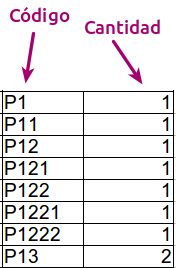
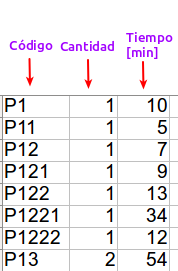
Agregamos tiempo de fabricacion

Changed region(s): [[0.0, 0.0597, 1.0, 1.0], [0.0568, 0.0299, 0.3977, 0.1194]]

diff --git a/templates/layout.html b/templates/layout.html
@@ -1,15 +1,19 @@
 <!doctype html>
 <html ng-app lang="es">
   <meta http-equiv="Content-Type" content="text/html;charset=utf-8">
-  <title>Calidad</title>
+  <title>UTN - Facultad Regional Buenos Aires</title>
   <link rel=stylesheet type=text/css href="{{ url_for('static',  filename='css/bootstrap.min.css') }}">
   <script type="text/javascript" src="../static/js/angular/angular.js"></script>
   <div class=container-fluid>
-    <h1>PCP</h1>
+    <a href="/"> <img src="../static/img/logo_utn.jpg" class="img-rounded"></a>
+    <br>
     <div class=nav-list>
       <div class="navbar">
         <div class="navbar-inner">
           <ul class="nav">
+            <li>
+              <a href="/">Inicio</a>
+            </li>
             <li>
               <a href="{{ url_for('abc') }}">ABC</a>
             </li>

diff --git a/templates/mrp.html b/templates/mrp.html
@@ -28,7 +28,7 @@
             <img src="../static/img/ejemplo_bom.png" class="img-rounded">
             <img data-src="holder.js/300x200" alt="Ejemplo archivo de BOM">
             <br>
-            <p>Este archivo debe contener dos columnas: Código de artículo y cantidad del mismo para armar una unidad de producto terminado.</p>
+            <p>Este archivo debe contener tre columnas: Código de artículo, cantidad del mismo para armar una unidad de producto terminado y tiempo de fabricacion de cada item.</p>
             <a href="../bom.csv" class="btn btn-success"> Descargar archivo de ejemplo</a>
           </div>
         </li>

diff --git a/templates/mrp_datos_subidos.html b/templates/mrp_datos_subidos.html
@@ -7,13 +7,15 @@
       <tr>
         <th>Código</th>
         <th>Cantidad</th>
+        <th>Tiempo de Fabricacion</th>
       </tr>
     </thead>
     <tbody>
       {% for item in necesidades %}
       <tr>
         <th>{{item}}</th>
-        <th>{{necesidades[item]}}</th>
+        <th>{{necesidades[item][0]}}</th>
+        <th>{{necesidades[item][1]}}</th>
       </tr>
       {% endfor %}
     </tbody>

diff --git a/app.py b/app.py
@@ -3,7 +3,7 @@
 
 # all the imports
 from flask import Flask, request, session, g, redirect, url_for,\
-    abort, render_template, flash, make_response
+abort, render_template, flash, make_response
 
 import os
 import csv
@@ -12,6 +12,7 @@ from Inventario import *
 from Bom import *
 from Mrp import *
 from Abc import *
+
 
 # configuration
 DEBUG = True
@@ -46,6 +47,7 @@ grupos = {}
 inventario = ''
 bom = ''
 mrp = ''
+html = ''
 
 
 def leer_csv_inventario(archivo):
@@ -120,7 +122,7 @@ def abc():
 
 @app.route('/abc_subir_archivo', methods=['POST'])
 def abc_subir_archivo():
-    global LISTADO_ABC, TOTALES, TOTALES_ABC_ACUM_JSON
+    global LISTADO_ABC, TOTALES, TOTALES_ABC_ACUM_JSON, html
     if request.method == 'POST':
         file = request.files['archivo']
         if file and es_archivo_permitido(file.filename):
@@ -129,13 +131,14 @@ def abc_subir_archivo():
             abc = Abc()
             abc.leer_csv_abc(os.path.join(UPLOADS_FOLDER, filename))
             abc.calcular_totales()
-            flash(u'Datos analizados')
-            return render_template('abc_grafico.html',
+
+            html = render_template('abc_grafico.html',
                                    totales = abc.TOTALES_ABC,
                                    totales_acum = abc.TOTALES_ABC_ACUM_JSON,
                                    monto_total = abc.TOTAL,
                                    grupos = abc.grupos,
                                    codigo_monto = abc.codigo_monto)
+            return html
         else:
             flash(u"El archivo %s no es un archivo válido" %
                   (file.filename), "error")
@@ -175,7 +178,8 @@ def mrp_enviar_datos():
 
         cantidad = int(request.form.values()[0])
         necesidades = calcular_mrp()
-        return render_template('mrp_datos_subidos.html', necesidades = necesidades)
+        html = render_template('mrp_datos_subidos.html', necesidades = necesidades)
+        return  html
 
 
 if __name__ == "__main__":

diff --git a/Mrp.py b/Mrp.py
@@ -3,9 +3,12 @@
 
 class Mrp():
 
+    necesidades = {}
+
     def __init__(self, ):
         """
         """
+        self.necesidades.clear()
 
     def calucar_necesidades(self, bom, inventario, cantidad):
         """
@@ -17,23 +20,19 @@ class Mrp():
         bom = bom.obtener_bom()
         inventario = inventario.obtener_inventario()
         totales = {}
-        self.necesidades = {}
 
         for i in bom:
-            totales[i] = cantidad * bom[i]
+            totales[i] = cantidad * bom[i][0]
 
         for t in totales:
             if t in inventario:
                 if inventario[t] <= totales[t]:
-                    self.necesidades[t] = totales[t] - inventario[t]
+                    resta = totales[t] - inventario[t]
+                    tiempo = resta * bom[t][1]
+                    self.necesidades[t] = [resta, tiempo]
             else:
-                self.necesidades[t] = totales[t]
+                tiempo = resta * bom[t][1]
+                self.necesidades[t] = [totales[t], tiempo]
 
     def obtener_necesidades(self):
         return self.necesidades
-
-
-        print totales
-        print inventario
-        print necesidades
-        print cantidad

diff --git a/Bom.py b/Bom.py
@@ -10,17 +10,19 @@ class Bom():
     def cargar_bom(self, listado):
         """
         Carga el BOM a partir de una lista de tuplas
-        del tipo (codigo, cantidad)
+        del tipo (codigo, cantidad, tiempo_fabricacion)
         """
 
         for tupla in listado:
             codigo = tupla[0]
             cantidad = tupla[1]
+            tiempo = tupla[2]
 
             if codigo not in self.BOM:
-                self.BOM[codigo] = int(cantidad)
+                self.BOM[codigo] = [int(cantidad), float(tiempo)]
             else:
-                self.BOM[codigo] = self.BOM[codigo] + int(cantidad)
+                #import ipdb; ipdb.set_trace()
+                self.BOM[codigo][0] = self.BOM[codigo][0] + int(cantidad)
 
     def obtener_bom(self):
         return self.BOM
